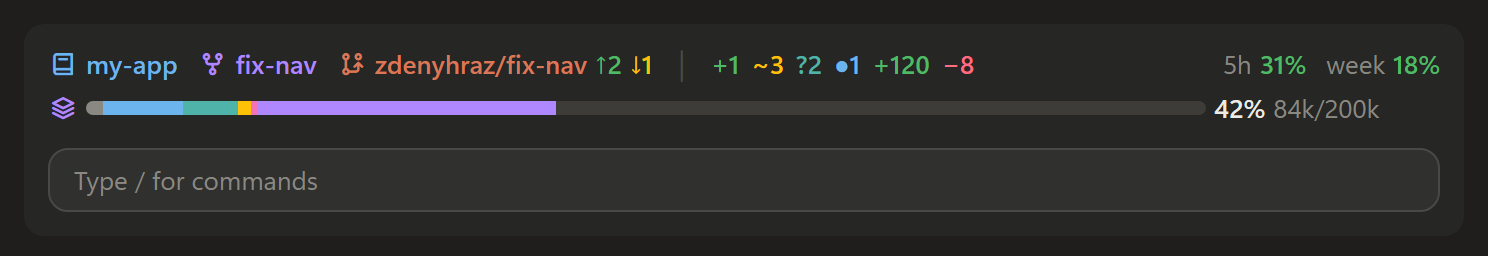
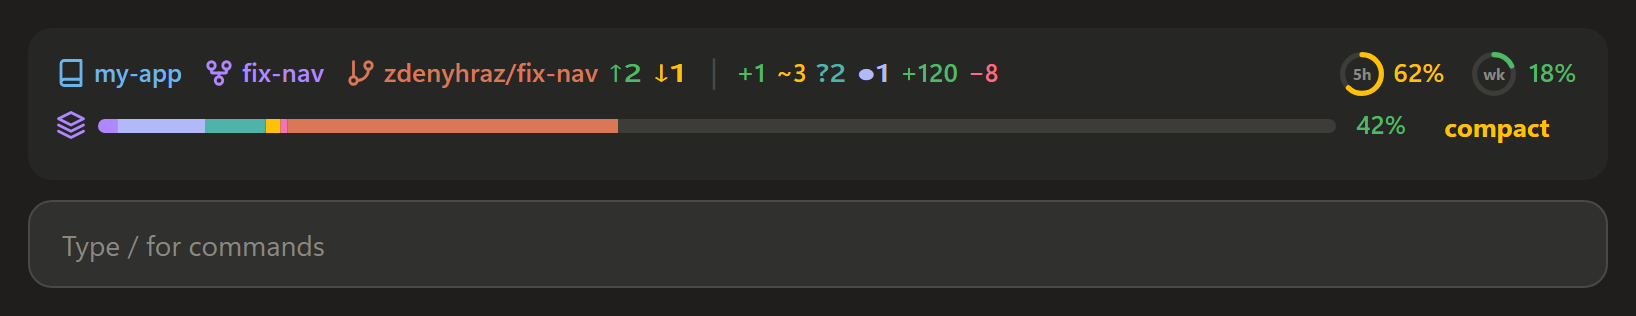
Show git-band's screenshots in the repository README
The screenshots move from the mod's README to the repository's, one under
the other, and are drawn by the 0.4.0 code with sample data: the limit
rings, the compact control and the context row without token counts.

diff --git a/plugins/git-band/README.md b/plugins/git-band/README.md
@@ -1,12 +1,6 @@
 # git-band
 
-A session dashboard above the Claude Code prompt:
-
-| With subagents | Without subagents |
-| --- | --- |
-| ![The dashboard with five subagent cards: running, done, failed, running and waiting](docs/dashboard-agents.png) | ![The dashboard with no subagents: the git row and the context bar only](docs/dashboard-idle.png) |
-
-The images are the design mockups the dashboard was built from, in the app's dark theme.
+A session dashboard above the Claude Code prompt. Screenshots are in the [repository README](../../README.md#git-band).
 
 1. **Git**, then the plan limits on the right:
    - **Repo** (blue): a book icon and the repository's name.

diff --git a/README.md b/README.md
@@ -8,6 +8,18 @@ Mods need Claude Code 2.1.287 or later.
 | --- | --- |
 | [git-band](plugins/git-band) | A session dashboard above the prompt: git branch, worktree and changes, context usage, plan limits and subagents. |
 
+## git-band
+
+While subagents run:
+
+![git-band with five subagent cards: running, running, waiting, done and failed](plugins/git-band/docs/dashboard-agents.png)
+
+With none:
+
+![git-band with no subagents: the git row with the plan limits, and the context bar](plugins/git-band/docs/dashboard-idle.png)
+
+Drawn by the mod's own code with sample data, in the desktop app's dark theme.
+
 ## Install
 
 At the prompt of a Claude Code terminal session:
